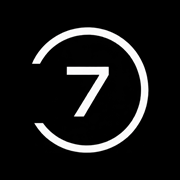
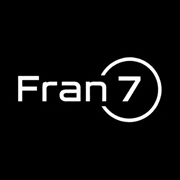
Use confirmed Fran 7 wordmark externally
Apply the complete no-slogan wordmark to favicon, app/share icons, and order receipts without changing in-site branding.

Changed region(s): [[0.0833, 0.1389, 0.9167, 0.8611]]

diff --git a/index.html b/index.html
@@ -9,11 +9,11 @@
     <meta name="viewport" content="width=device-width, initial-scale=1.0">
     <meta name="color-scheme" content="light">
 
-    <link rel="icon" type="image/png" sizes="48x48" href="./favicon-48.png?v=20261110-4">
-    <link rel="icon" type="image/png" sizes="192x192" href="./favicon-192.png?v=20261110-4">
-    <link rel="shortcut icon" type="image/png" href="./favicon-48.png?v=20261110-4">
-    <link rel="apple-touch-icon" sizes="180x180" href="./apple-touch-icon.png?v=20261110-4">
-    <link rel="manifest" href="./site.webmanifest?v=20261110-3">
+    <link rel="icon" type="image/png" sizes="48x48" href="./favicon-48.png?v=20261111-1">
+    <link rel="icon" type="image/png" sizes="192x192" href="./favicon-192.png?v=20261111-1">
+    <link rel="shortcut icon" type="image/png" href="./favicon-48.png?v=20261111-1">
+    <link rel="apple-touch-icon" sizes="180x180" href="./apple-touch-icon.png?v=20261111-1">
+    <link rel="manifest" href="./site.webmanifest?v=20261111-1">
 
     <title>FRAN7 | Grief &amp; Glory</title>
     <meta name="description" content="Conheça a nova coleção e estilo único da FRAN7.">
@@ -26,8 +26,8 @@
     <meta property="og:title" content="FRAN7 | Grief &amp; Glory">
     <meta property="og:description" content="Conheça a nova coleção e estilo único da FRAN7.">
     <meta property="og:url" content="https://fran7gg.github.io/">
-    <meta property="og:image" content="https://fran7gg.github.io/fran7-social.png?v=20261110-4">
-    <meta property="og:image:alt" content="Símbolo 7 da FRAN7">
+    <meta property="og:image" content="https://fran7gg.github.io/fran7-social.png?v=20261111-1">
+    <meta property="og:image:alt" content="Logótipo Fran 7">
     <meta property="og:image:type" content="image/png">
     <meta property="og:image:width" content="1254">
     <meta property="og:image:height" content="1254">
@@ -35,8 +35,8 @@
     <meta name="twitter:card" content="summary_large_image">
     <meta name="twitter:title" content="FRAN7 | Grief &amp; Glory">
     <meta name="twitter:description" content="Conheça a nova coleção e estilo único da FRAN7.">
-    <meta name="twitter:image" content="https://fran7gg.github.io/fran7-social.png?v=20261110-4">
-    <meta name="twitter:image:alt" content="Símbolo 7 da FRAN7">
+    <meta name="twitter:image" content="https://fran7gg.github.io/fran7-social.png?v=20261111-1">
+    <meta name="twitter:image:alt" content="Logótipo Fran 7">
     <script type="application/ld+json">
     {
       "@context": "https://schema.org",
@@ -48,7 +48,7 @@
           "url": "https://fran7gg.github.io/",
           "logo": {
             "@type": "ImageObject",
-            "url": "https://fran7gg.github.io/fran7-social.png?v=20261110-4",
+            "url": "https://fran7gg.github.io/fran7-social.png?v=20261111-1",
             "width": 1254,
             "height": 1254
           }
@@ -5477,11 +5477,11 @@
 
     </script>
     <script src="assets/js/fran7-notificacoes.js"></script>
-    <script src="assets/js/fran7-checkout-config.js?v=20261110-4"></script>
+    <script src="assets/js/fran7-checkout-config.js?v=20261111-2"></script>
     <script src="https://cdn.jsdelivr.net/npm/@supabase/supabase-js@2"></script>
     <script src="assets/js/fran7-supabase.js?v=20261106-1"></script>
     <script src="assets/js/fran7-banner-catalogo.js?v=20261107-1"></script>
-    <script src="assets/js/fran7-checkout.js?v=20261110-4"></script>
+    <script src="assets/js/fran7-checkout.js?v=20261111-2"></script>
     <script src="assets/js/fran7-pesquisa-produtos.js?v=20261107-1"></script>
     <script src="assets/js/pocketbase-destaques-inicio.js?v=20261107-1"></script>
     <script src="assets/js/favoritos.js?v=20261105-4"></script>

diff --git a/inicio.html b/inicio.html
@@ -9,11 +9,11 @@
     <meta name="viewport" content="width=device-width, initial-scale=1.0">
     <meta name="color-scheme" content="light">
 
-    <link rel="icon" type="image/png" sizes="48x48" href="./favicon-48.png?v=20261110-4">
-    <link rel="icon" type="image/png" sizes="192x192" href="./favicon-192.png?v=20261110-4">
-    <link rel="shortcut icon" type="image/png" href="./favicon-48.png?v=20261110-4">
-    <link rel="apple-touch-icon" sizes="180x180" href="./apple-touch-icon.png?v=20261110-4">
-    <link rel="manifest" href="./site.webmanifest?v=20261110-3">
+    <link rel="icon" type="image/png" sizes="48x48" href="./favicon-48.png?v=20261111-1">
+    <link rel="icon" type="image/png" sizes="192x192" href="./favicon-192.png?v=20261111-1">
+    <link rel="shortcut icon" type="image/png" href="./favicon-48.png?v=20261111-1">
+    <link rel="apple-touch-icon" sizes="180x180" href="./apple-touch-icon.png?v=20261111-1">
+    <link rel="manifest" href="./site.webmanifest?v=20261111-1">
 
     <title>FRAN7 | Grief &amp; Glory</title>
     <meta name="description" content="Conheça a nova coleção e estilo único da FRAN7.">
@@ -26,8 +26,8 @@
     <meta property="og:title" content="FRAN7 | Grief &amp; Glory">
     <meta property="og:description" content="Conheça a nova coleção e estilo único da FRAN7.">
     <meta property="og:url" content="https://fran7gg.github.io/">
-    <meta property="og:image" content="https://fran7gg.github.io/fran7-social.png?v=20261110-4">
-    <meta property="og:image:alt" content="Símbolo 7 da FRAN7">
+    <meta property="og:image" content="https://fran7gg.github.io/fran7-social.png?v=20261111-1">
+    <meta property="og:image:alt" content="Logótipo Fran 7">
     <meta property="og:image:type" content="image/png">
     <meta property="og:image:width" content="1254">
     <meta property="og:image:height" content="1254">
@@ -35,8 +35,8 @@
     <meta name="twitter:card" content="summary_large_image">
     <meta name="twitter:title" content="FRAN7 | Grief &amp; Glory">
     <meta name="twitter:description" content="Conheça a nova coleção e estilo único da FRAN7.">
-    <meta name="twitter:image" content="https://fran7gg.github.io/fran7-social.png?v=20261110-4">
-    <meta name="twitter:image:alt" content="Símbolo 7 da FRAN7">
+    <meta name="twitter:image" content="https://fran7gg.github.io/fran7-social.png?v=20261111-1">
+    <meta name="twitter:image:alt" content="Logótipo Fran 7">
     <script type="application/ld+json">
     {
       "@context": "https://schema.org",
@@ -48,7 +48,7 @@
           "url": "https://fran7gg.github.io/",
           "logo": {
             "@type": "ImageObject",
-            "url": "https://fran7gg.github.io/fran7-social.png?v=20261110-4",
+            "url": "https://fran7gg.github.io/fran7-social.png?v=20261111-1",
             "width": 1254,
             "height": 1254
           }
@@ -5470,8 +5470,8 @@
 
     </script>
     <script src="assets/js/fran7-notificacoes.js"></script>
-    <script src="assets/js/fran7-checkout-config.js?v=20261110-4"></script>
-    <script src="assets/js/fran7-checkout.js?v=20261110-4"></script>
+    <script src="assets/js/fran7-checkout-config.js?v=20261111-2"></script>
+    <script src="assets/js/fran7-checkout.js?v=20261111-2"></script>
     <script src="https://cdn.jsdelivr.net/npm/@supabase/supabase-js@2"></script>
     <script src="assets/js/fran7-supabase.js?v=20261106-1"></script>
     <script src="assets/js/fran7-banner-catalogo.js?v=20261107-1"></script>

diff --git a/colecao.html b/colecao.html
@@ -13,11 +13,11 @@
     <meta name="description" content="Descobre as coleções FRAN7: peças feitas para acompanhar a tua história.">
     <meta name="robots" content="index, follow">
     <link rel="canonical" href="https://fran7gg.github.io/colecao.html">
-    <link rel="icon" type="image/png" sizes="48x48" href="./favicon-48.png?v=20261110-4">
-    <link rel="icon" type="image/png" sizes="192x192" href="./favicon-192.png?v=20261110-4">
-    <link rel="shortcut icon" type="image/png" href="./favicon-48.png?v=20261110-4">
-    <link rel="apple-touch-icon" sizes="180x180" href="./apple-touch-icon.png?v=20261110-4">
-    <link rel="manifest" href="./site.webmanifest?v=20261110-3">
+    <link rel="icon" type="image/png" sizes="48x48" href="./favicon-48.png?v=20261111-1">
+    <link rel="icon" type="image/png" sizes="192x192" href="./favicon-192.png?v=20261111-1">
+    <link rel="shortcut icon" type="image/png" href="./favicon-48.png?v=20261111-1">
+    <link rel="apple-touch-icon" sizes="180x180" href="./apple-touch-icon.png?v=20261111-1">
+    <link rel="manifest" href="./site.webmanifest?v=20261111-1">
     <script type="module" src="https://ajax.googleapis.com/ajax/libs/model-viewer/4.0.0/model-viewer.min.js"></script>
     <link rel="stylesheet" href="assets/css/assistente.css?v=20261030-4">
     <link rel="stylesheet" href="assets/css/carrinho-compartilhado.css?v=20261108-2">
@@ -529,12 +529,12 @@
             `;
         }
     </script>
-    <script src="assets/js/fran7-checkout-config.js?v=20261110-4"></script>
+    <script src="assets/js/fran7-checkout-config.js?v=20261111-2"></script>
     <script src="https://cdn.jsdelivr.net/npm/@supabase/supabase-js@2"></script>
     <script src="assets/js/fran7-supabase.js?v=20261106-1"></script>
     <script src="assets/js/pocketbase-colecao.js?v=20261107-2"></script>
     <script src="assets/js/fran7-notificacoes.js"></script>
-    <script src="assets/js/fran7-checkout.js?v=20261110-4"></script>
+    <script src="assets/js/fran7-checkout.js?v=20261111-2"></script>
     <script src="assets/js/favoritos.js?v=20261105-4"></script>
     <script src="assets/js/carrinho-compartilhado.js?v=20261108-2"></script>
     <script src="assets/js/pocketbase-auth.js?v=20261107-1"></script>

diff --git a/catalogo.html b/catalogo.html
@@ -13,11 +13,11 @@
     <meta name="description" content="Explora o catálogo de modelos e peças da FRAN7.">
     <meta name="robots" content="index, follow">
     <link rel="canonical" href="https://fran7gg.github.io/catalogo.html">
-    <link rel="icon" type="image/png" sizes="48x48" href="./favicon-48.png?v=20261110-4">
-    <link rel="icon" type="image/png" sizes="192x192" href="./favicon-192.png?v=20261110-4">
-    <link rel="shortcut icon" type="image/png" href="./favicon-48.png?v=20261110-4">
-    <link rel="apple-touch-icon" sizes="180x180" href="./apple-touch-icon.png?v=20261110-4">
-    <link rel="manifest" href="./site.webmanifest?v=20261110-3">
+    <link rel="icon" type="image/png" sizes="48x48" href="./favicon-48.png?v=20261111-1">
+    <link rel="icon" type="image/png" sizes="192x192" href="./favicon-192.png?v=20261111-1">
+    <link rel="shortcut icon" type="image/png" href="./favicon-48.png?v=20261111-1">
+    <link rel="apple-touch-icon" sizes="180x180" href="./apple-touch-icon.png?v=20261111-1">
+    <link rel="manifest" href="./site.webmanifest?v=20261111-1">
     <script type="module" src="https://ajax.googleapis.com/ajax/libs/model-viewer/4.0.0/model-viewer.min.js"></script>
     <link rel="stylesheet" href="assets/css/assistente.css?v=20261030-4">
     <link rel="stylesheet" href="assets/css/carrinho-compartilhado.css?v=20261108-2">
@@ -419,10 +419,10 @@
     </footer>
 
     <script src="assets/js/fran7-notificacoes.js"></script>
-    <script src="assets/js/fran7-checkout-config.js?v=20261110-4"></script>
+    <script src="assets/js/fran7-checkout-config.js?v=20261111-2"></script>
     <script src="https://cdn.jsdelivr.net/npm/@supabase/supabase-js@2"></script>
     <script src="assets/js/fran7-supabase.js?v=20261106-1"></script>
-    <script src="assets/js/fran7-checkout.js?v=20261110-4"></script>
+    <script src="assets/js/fran7-checkout.js?v=20261111-2"></script>
     <script src="assets/js/pocketbase-catalogo.js?v=20261106-1"></script>
     <script src="assets/js/favoritos.js?v=20261105-4"></script>
     <script src="assets/js/carrinho-compartilhado.js?v=20261108-2"></script>

diff --git a/favoritos.html b/favoritos.html
@@ -10,11 +10,11 @@
     <script src="assets/js/fran7-sessao.js?v=20261104-1"></script>
     <script src="assets/js/proteger-inicio.js?v=20261107-1"></script>
     <title>Os meus favoritos | FRAN7</title>
-    <link rel="icon" type="image/png" sizes="48x48" href="./favicon-48.png?v=20261110-4">
-    <link rel="icon" type="image/png" sizes="192x192" href="./favicon-192.png?v=20261110-4">
-    <link rel="shortcut icon" type="image/png" href="./favicon-48.png?v=20261110-4">
-    <link rel="apple-touch-icon" sizes="180x180" href="./apple-touch-icon.png?v=20261110-4">
-    <link rel="manifest" href="./site.webmanifest?v=20261110-3">
+    <link rel="icon" type="image/png" sizes="48x48" href="./favicon-48.png?v=20261111-1">
+    <link rel="icon" type="image/png" sizes="192x192" href="./favicon-192.png?v=20261111-1">
+    <link rel="shortcut icon" type="image/png" href="./favicon-48.png?v=20261111-1">
+    <link rel="apple-touch-icon" sizes="180x180" href="./apple-touch-icon.png?v=20261111-1">
+    <link rel="manifest" href="./site.webmanifest?v=20261111-1">
     <script type="module" src="https://ajax.googleapis.com/ajax/libs/model-viewer/4.0.0/model-viewer.min.js"></script>
     <link rel="stylesheet" href="assets/css/assistente.css?v=20261030-4">
     <link rel="stylesheet" href="assets/css/carrinho-compartilhado.css?v=20261108-2">
@@ -353,10 +353,10 @@
     </footer>
 
     <script src="assets/js/fran7-notificacoes.js"></script>
-    <script src="assets/js/fran7-checkout-config.js?v=20261110-4"></script>
+    <script src="assets/js/fran7-checkout-config.js?v=20261111-2"></script>
     <script src="https://cdn.jsdelivr.net/npm/@supabase/supabase-js@2"></script>
     <script src="assets/js/fran7-supabase.js?v=20261106-1"></script>
-    <script src="assets/js/fran7-checkout.js?v=20261110-4"></script>
+    <script src="assets/js/fran7-checkout.js?v=20261111-2"></script>
     <script src="assets/js/favoritos.js?v=20261105-4"></script>
     <script src="assets/js/carrinho-compartilhado.js?v=20261108-2"></script>
     <script src="assets/js/pocketbase-auth.js?v=20261107-1"></script>

diff --git a/admin-suporte.html b/admin-suporte.html
@@ -3,11 +3,11 @@
 <head>
     <meta charset="UTF-8">
     <meta name="viewport" content="width=device-width, initial-scale=1.0">
-    <link rel="icon" type="image/png" sizes="48x48" href="./favicon-48.png?v=20261110-4">
-    <link rel="icon" type="image/png" sizes="192x192" href="./favicon-192.png?v=20261110-4">
-    <link rel="shortcut icon" type="image/png" href="./favicon-48.png?v=20261110-4">
-    <link rel="apple-touch-icon" sizes="180x180" href="./apple-touch-icon.png?v=20261110-4">
-    <link rel="manifest" href="./site.webmanifest?v=20261110-3">
+    <link rel="icon" type="image/png" sizes="48x48" href="./favicon-48.png?v=20261111-1">
+    <link rel="icon" type="image/png" sizes="192x192" href="./favicon-192.png?v=20261111-1">
+    <link rel="shortcut icon" type="image/png" href="./favicon-48.png?v=20261111-1">
+    <link rel="apple-touch-icon" sizes="180x180" href="./apple-touch-icon.png?v=20261111-1">
+    <link rel="manifest" href="./site.webmanifest?v=20261111-1">
     <title>FRAN7 · Atendimento de suporte</title>
     <style>
         :root { color-scheme: dark; --fundo: #090909; --painel: #161616; --borda: #333; --texto: #f5f5f5; --sucesso: #25d366; --erro: #ff6b6b; }
@@ -147,7 +147,7 @@
         </div>
     </main>
 
-    <script src="assets/js/fran7-checkout-config.js?v=20261110-4"></script>
+    <script src="assets/js/fran7-checkout-config.js?v=20261111-2"></script>
     <script src="https://cdn.jsdelivr.net/npm/@supabase/supabase-js@2"></script>
     <script src="assets/js/fran7-supabase.js?v=20261106-1"></script>
     <script src="assets/js/pocketbase-auth.js?v=20261107-1"></script>

diff --git a/redefinir-palavra-passe.html b/redefinir-palavra-passe.html
@@ -4,11 +4,11 @@
     <meta charset="UTF-8">
     <meta name="viewport" content="width=device-width, initial-scale=1">
     <meta name="color-scheme" content="light">
-    <link rel="icon" type="image/png" sizes="48x48" href="./favicon-48.png?v=20261110-4">
-    <link rel="icon" type="image/png" sizes="192x192" href="./favicon-192.png?v=20261110-4">
-    <link rel="shortcut icon" type="image/png" href="./favicon-48.png?v=20261110-4">
-    <link rel="apple-touch-icon" sizes="180x180" href="./apple-touch-icon.png?v=20261110-4">
-    <link rel="manifest" href="./site.webmanifest?v=20261110-3">
+    <link rel="icon" type="image/png" sizes="48x48" href="./favicon-48.png?v=20261111-1">
+    <link rel="icon" type="image/png" sizes="192x192" href="./favicon-192.png?v=20261111-1">
+    <link rel="shortcut icon" type="image/png" href="./favicon-48.png?v=20261111-1">
+    <link rel="apple-touch-icon" sizes="180x180" href="./apple-touch-icon.png?v=20261111-1">
+    <link rel="manifest" href="./site.webmanifest?v=20261111-1">
     <title>Redefinir palavra-passe | FRAN7</title>
     <style>
         * {
@@ -140,7 +140,7 @@
         <a class="back-link" href="registo.html?modo=login">Voltar ao login</a>
     </main>
 
-    <script src="assets/js/fran7-checkout-config.js?v=20261110-4"></script>
+    <script src="assets/js/fran7-checkout-config.js?v=20261111-2"></script>
     <script src="https://cdn.jsdelivr.net/npm/@supabase/supabase-js@2"></script>
     <script src="assets/js/fran7-supabase.js?v=20261106-1"></script>
     <script src="assets/js/pocketbase-auth.js?v=20261107-1"></script>

diff --git a/registo.html b/registo.html
@@ -9,11 +9,11 @@
     <meta name="viewport" content="width=device-width, initial-scale=1.0">
     <meta name="color-scheme" content="light">
 
-    <link rel="icon" type="image/png" sizes="48x48" href="./favicon-48.png?v=20261110-4">
-    <link rel="icon" type="image/png" sizes="192x192" href="./favicon-192.png?v=20261110-4">
-    <link rel="shortcut icon" type="image/png" href="./favicon-48.png?v=20261110-4">
-    <link rel="apple-touch-icon" sizes="180x180" href="./apple-touch-icon.png?v=20261110-4">
-    <link rel="manifest" href="./site.webmanifest?v=20261110-3">
+    <link rel="icon" type="image/png" sizes="48x48" href="./favicon-48.png?v=20261111-1">
+    <link rel="icon" type="image/png" sizes="192x192" href="./favicon-192.png?v=20261111-1">
+    <link rel="shortcut icon" type="image/png" href="./favicon-48.png?v=20261111-1">
+    <link rel="apple-touch-icon" sizes="180x180" href="./apple-touch-icon.png?v=20261111-1">
+    <link rel="manifest" href="./site.webmanifest?v=20261111-1">
     <link rel="stylesheet" href="assets/css/assistente.css?v=20261030-4">
 
     <title>REGISTRO | FRAN7</title>
@@ -1431,7 +1431,7 @@
          JAVASCRIPT
     ========================= -->
 
-         <script src="assets/js/fran7-checkout-config.js?v=20261110-4"></script>
+         <script src="assets/js/fran7-checkout-config.js?v=20261111-2"></script>
          <script src="assets/js/fran7-sessao.js"></script>
          <script src="https://cdn.jsdelivr.net/npm/@supabase/supabase-js@2"></script>
          <script src="assets/js/fran7-supabase.js?v=20261106-1"></script>

diff --git a/assets/js/fran7-checkout.js b/assets/js/fran7-checkout.js
@@ -218,7 +218,7 @@
         const formatPrice = function(price) { return price === null ? "A confirmar" : formatAmount(price); };
 
         function drawHeader() {
-            if (logo) doc.addImage(logo, "PNG", left, 14, 24, 24);
+            if (logo) doc.addImage(logo, "PNG", left, 10, 36, 19);
             doc.setFont("helvetica", "bold");
             doc.setFontSize(14);
             doc.text("FATURA / PEDIDO", right, 18, { align: "right" });
@@ -227,17 +227,17 @@
             doc.text("N.º " + order.id_pedido, right, 24, { align: "right" });
             doc.text(dateText, right, 30, { align: "right" });
             doc.setDrawColor(215, 215, 215);
-            doc.line(left, 37, right, 37);
+            doc.line(left, 43, right, 43);
         }
 
         function drawParty(heading, lines, x, width) {
             doc.setFont("helvetica", "bold");
             doc.setFontSize(9);
             doc.setTextColor(35, 35, 35);
-            doc.text(heading.toUpperCase(), x, 47);
+            doc.text(heading.toUpperCase(), x, 52);
             doc.setFont("helvetica", "normal");
             doc.setFontSize(8);
-            let lineY = 53;
+            let lineY = 58;
             lines.forEach(function(line) {
                 const wrapped = doc.splitTextToSize(line, width);
                 doc.text(wrapped, x, lineY);

diff --git a/teste-editorial-2027.html b/teste-editorial-2027.html
@@ -4,11 +4,11 @@
     <meta charset="UTF-8">
     <meta name="viewport" content="width=device-width, initial-scale=1">
     <meta name="color-scheme" content="light">
-    <link rel="icon" type="image/png" sizes="48x48" href="./favicon-48.png?v=20261110-4">
-    <link rel="icon" type="image/png" sizes="192x192" href="./favicon-192.png?v=20261110-4">
-    <link rel="shortcut icon" type="image/png" href="./favicon-48.png?v=20261110-4">
-    <link rel="apple-touch-icon" sizes="180x180" href="./apple-touch-icon.png?v=20261110-4">
-    <link rel="manifest" href="./site.webmanifest?v=20261110-3">
+    <link rel="icon" type="image/png" sizes="48x48" href="./favicon-48.png?v=20261111-1">
+    <link rel="icon" type="image/png" sizes="192x192" href="./favicon-192.png?v=20261111-1">
+    <link rel="shortcut icon" type="image/png" href="./favicon-48.png?v=20261111-1">
+    <link rel="apple-touch-icon" sizes="180x180" href="./apple-touch-icon.png?v=20261111-1">
+    <link rel="manifest" href="./site.webmanifest?v=20261111-1">
     <title>FRAN7 — Editorial 2027 | Teste</title>
     <meta name="description" content="Pré-visualização de um conceito editorial FRAN7 para 2027.">
     <style>

diff --git a/configuracoes.html b/configuracoes.html
@@ -8,11 +8,11 @@
     <meta name="viewport" content="width=device-width, initial-scale=1">
     <meta name="color-scheme" content="light">
     <title>Configurações | FRAN7</title>
-    <link rel="icon" type="image/png" sizes="48x48" href="./favicon-48.png?v=20261110-4">
-    <link rel="icon" type="image/png" sizes="192x192" href="./favicon-192.png?v=20261110-4">
-    <link rel="shortcut icon" type="image/png" href="./favicon-48.png?v=20261110-4">
-    <link rel="apple-touch-icon" sizes="180x180" href="./apple-touch-icon.png?v=20261110-4">
-    <link rel="manifest" href="./site.webmanifest?v=20261110-3">
+    <link rel="icon" type="image/png" sizes="48x48" href="./favicon-48.png?v=20261111-1">
+    <link rel="icon" type="image/png" sizes="192x192" href="./favicon-192.png?v=20261111-1">
+    <link rel="shortcut icon" type="image/png" href="./favicon-48.png?v=20261111-1">
+    <link rel="apple-touch-icon" sizes="180x180" href="./apple-touch-icon.png?v=20261111-1">
+    <link rel="manifest" href="./site.webmanifest?v=20261111-1">
     <link rel="stylesheet" href="assets/css/tema-automatico.css">
     <script src="assets/js/configuracoes.js"></script>
     <style>

diff --git a/teste-video.html b/teste-video.html
@@ -4,11 +4,11 @@
 <head>
     <meta charset="UTF-8">
     <meta name="viewport" content="width=device-width, initial-scale=1.0">
-    <link rel="icon" type="image/png" sizes="48x48" href="./favicon-48.png?v=20261110-4">
-    <link rel="icon" type="image/png" sizes="192x192" href="./favicon-192.png?v=20261110-4">
-    <link rel="shortcut icon" type="image/png" href="./favicon-48.png?v=20261110-4">
-    <link rel="apple-touch-icon" sizes="180x180" href="./apple-touch-icon.png?v=20261110-4">
-    <link rel="manifest" href="./site.webmanifest?v=20261110-3">
+    <link rel="icon" type="image/png" sizes="48x48" href="./favicon-48.png?v=20261111-1">
+    <link rel="icon" type="image/png" sizes="192x192" href="./favicon-192.png?v=20261111-1">
+    <link rel="shortcut icon" type="image/png" href="./favicon-48.png?v=20261111-1">
+    <link rel="apple-touch-icon" sizes="180x180" href="./apple-touch-icon.png?v=20261111-1">
+    <link rel="manifest" href="./site.webmanifest?v=20261111-1">
     <title>Teste de vídeo FRAN7</title>
 </head>
 <body style="background:#111;color:white;font-family:Arial;padding:20px">
